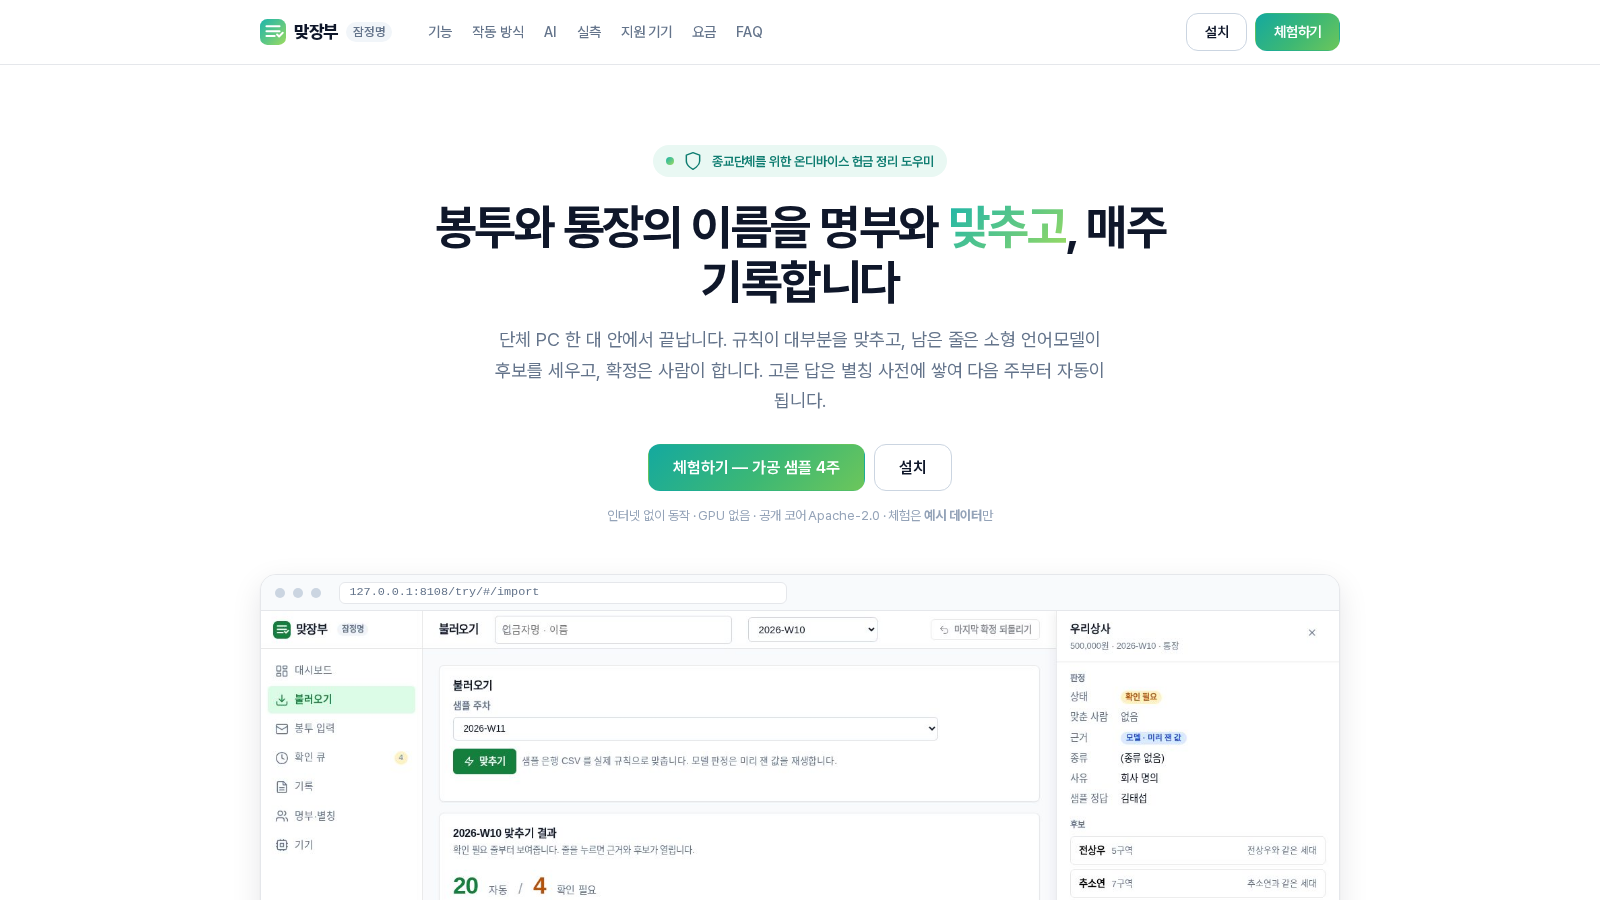
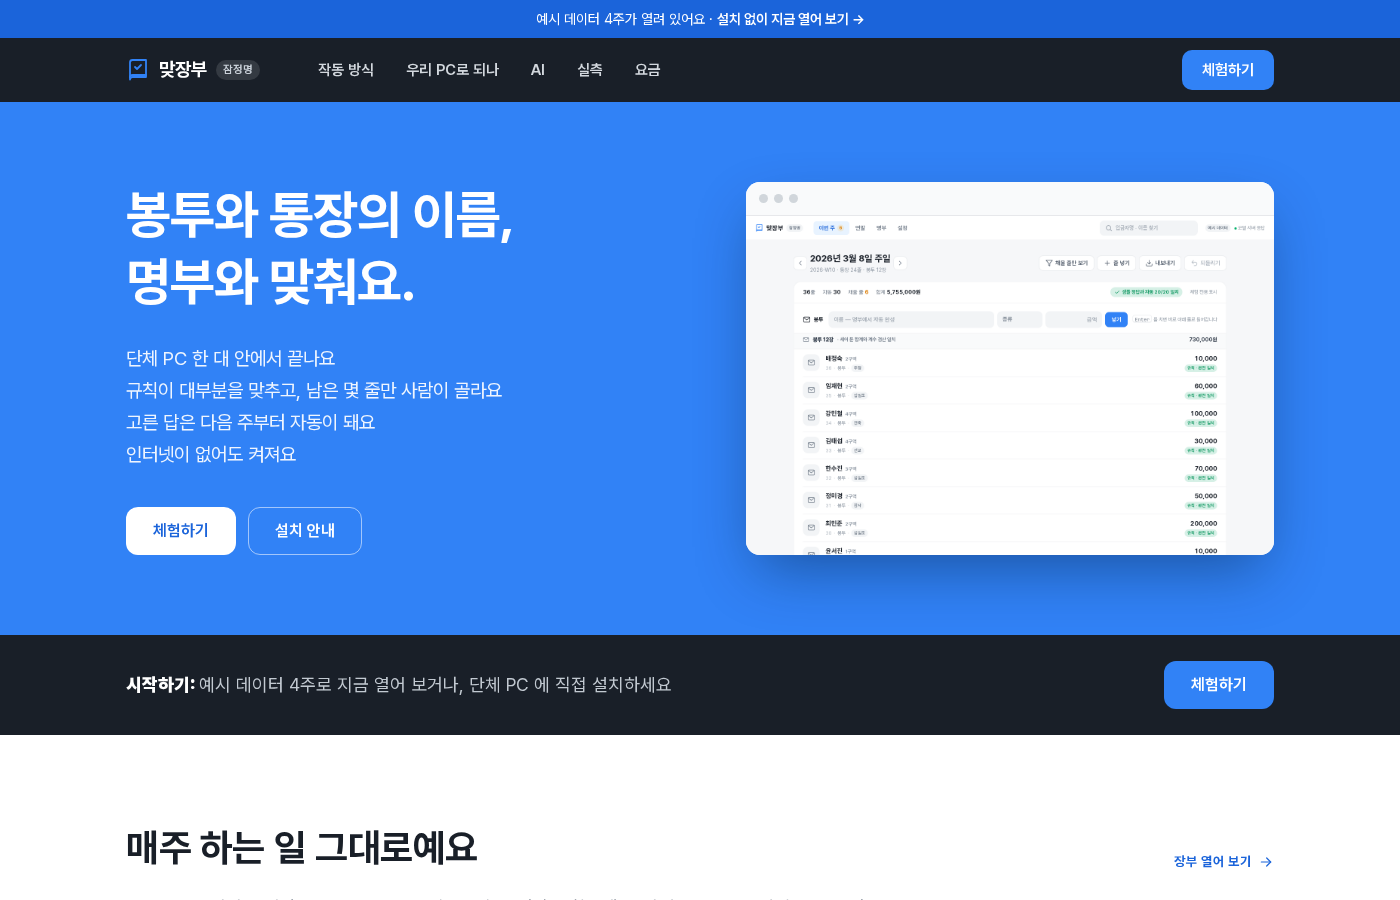
tools: 검증 도구 3개를 새 DOM 계약(data-mj)으로 다시 씀
클래스 이름이 아니라 `data-mj` 속성만 본다 — 겉모습을 손봐도 도구가 깨지지 않는다.

- `verify_site.cjs` — 경로를 `/`·`/install/`·`/try/` 셋으로. 화면마다 계약 개수를
  단언하고(hero·matrix·opt[data-on]·out·gnb·tab 4·ledger·entry·total·row),
  390px 가로 넘침 0 을 함께 본다. `--expect-banner` 는 `--expect-recorded` 로 바뀌었고
  배너 대신 `window.matjangbuApiBase === null` 로 폴백을 판정한다(옛 이름도 계속 받는다).
- `verify_funnel.cjs` — 깔때기를 새 동선으로: 랜딩 히어로 「체험하기」 → `/try/` →
  첫 빈 줄 클릭 → 그 자리 판 열림 → 첫 후보 클릭 → 채울 줄 수가 하나 줄어듦.
  읽기 전용이거나 후보가 없는 줄이면 판 열림까지만 단언한다.
- `site_shots.cjs` — 9장(랜딩 데스크톱·모바일 · 설치 · 주간 장 · 펼친 판 ·
  연말 · 명부 · 설정 · 주간 장 모바일). 옛 7장은 없어진 화면이라 지웠다.
- `docs/ops.md` 의 배너·확인 큐 서술을 새 화면에 맞췄다.

검증(8108): verify_site 0 · verify_funnel 0(9개 ✓) · site_shots 0(9장, 콘솔 에러 0).
폴백(8123 + `--expect-recorded`): verify_site 0.

diff --git a/docs/ops.md b/docs/ops.md
@@ -32,14 +32,16 @@ tailscale funnel status                  # https://<이 노트북>.<테일넷>.t
 ```
 
 주소가 나오면 `site/try/index.html`의 `<meta name="matjangbu-api" content="https://…/">`에 넣고 재배포한다(아래).
-공개 사이트가 인스턴스에 붙는지: `node tools/verify_site.cjs --base https://stoporder.github.io/matjangbu --allow https://<주소> --resolve <호스트>=<공개 IP>` (배너 없음 = 0).
+공개 사이트가 인스턴스에 붙는지: `node tools/verify_site.cjs --base https://stoporder.github.io/matjangbu --allow https://<주소> --resolve <호스트>=<공개 IP>` (0 = 통과).
+- 세 경로(`/`·`/install/`·`/try/`)의 DOM 계약(`data-mj=…`)·외부 요청 0·콘솔 에러 0·정적 4xx 0·390px 가로 넘침 0 을 한 번에 본다.
 - `--resolve`가 필요한 이유: 테일넷에 들어 있는 머신에서는 Funnel 호스트가 MagicDNS 로 100.x 로 풀리고, Chromium 은 공개 사이트가 「local 주소 공간」에 fetch 하는 것을 막는다(헤드리스는 그냥 거부, 일반 브라우저는 「로컬 네트워크 접근」 허용을 묻는다). 공개 IP 는 `curl -s 'https://dns.google/resolve?name=<호스트>&type=A'`로 본다(2026-09-20 현재 103.84.155.217 · 103.84.155.153).
-- 같은 이유로 **Tailscale 이 켜진 자기 기기**에서 공개 `/try/`를 열면 브라우저가 로컬 네트워크 접근 허용을 한 번 묻는다. 허용하지 않으면 읽기 전용 폴백(앰버 배너)으로 떨어진다. 외부 방문자·Tailscale 을 끈 기기는 해당 없음.
+- 같은 이유로 **Tailscale 이 켜진 자기 기기**에서 공개 `/try/`를 열면 브라우저가 로컬 네트워크 접근 허용을 한 번 묻는다. 허용하지 않으면 읽기 전용 폴백(GNB 에 「미리 잰 기록」 칩)으로 떨어진다. 외부 방문자·Tailscale 을 끈 기기는 해당 없음.
 
-끝까지 동작하는지(확인 큐 확정 → W11 불러오기에서 별칭 자동): `node tools/verify_funnel.cjs --base https://stoporder.github.io/matjangbu --api https://<주소>/ --resolve <호스트>=<공개 IP> --out docs/shots/08-public-funnel-w11.png` (0 = 통과, 최종 화면을 찍는다).
-- 이 스크립트의 대기는 전부 조건 대기다. 공개 인그레스 경유는 요청당 0.5~3초라 고정 시간 대기는 실패한다. `#imp-progress`의 「끝」과 토스트는 일시 표시(불러오기 뒤 `load()`가 화면을 다시 그림)라 기준으로 쓰지 않는다 — `tools/site_shots.cjs`는 아직 「끝」을 기다리므로 느린 경로에서는 시간 초과가 날 수 있다(로컬 8108 전용으로 둔다).
+끝까지 동작하는지(랜딩 「체험하기」 → 장부 → 빈 줄 펼침 → 후보 확정): `node tools/verify_funnel.cjs --base https://stoporder.github.io/matjangbu --api https://<주소>/ --resolve <호스트>=<공개 IP> --out docs/shots/10-public-funnel.png` (0 = 통과, `--out` 을 주면 최종 화면을 찍는다).
+- 이 스크립트의 대기는 전부 조건 대기다. 공개 인그레스 경유는 요청당 0.5~3초라 고정 시간 대기는 실패한다. 토스트는 3.2초 뒤 사라지는 일시 표시라 기준으로 쓰지 않는다 — 「채울 줄 수가 하나 줄었다」를 기다린다.
+- 읽기 전용(미리 잰 기록)으로 떨어진 경우에는 고르기가 막히므로 판이 열리는 데까지만 단언하고 통과시킨다.
 
-폴백 확인: `systemctl --user stop matjangbu-web` → 위 `verify_site.cjs` 명령에 `--expect-banner`를 붙여 0 → `systemctl --user start matjangbu-web`.
+폴백 확인: `systemctl --user stop matjangbu-web` → 위 `verify_site.cjs` 명령에 `--expect-recorded`를 붙여 0 → `systemctl --user start matjangbu-web`. (옛 이름 `--expect-banner` 도 아직 받는다.)
 
 ## 사이트 재배포
 
@@ -52,7 +54,9 @@ git subtree push --prefix site origin gh-pages          # 1~2분 뒤 반영
 curl -sI https://stoporder.github.io/matjangbu/ | head -1
 ```
 
-확인 큐 카드의 직접 고르기 select 는 「다른 방법 ▾」(`[data-more]`)를 눌러야 보인다 — 검증 도구(`site_shots.cjs`·`verify_funnel.cjs`)는 이미 그렇게 한다.
+화면과 검증 도구가 같이 지키는 것은 `data-mj` 속성뿐이다 — `gnb`·`tab`·`ledger`·`row`(+`data-blank`)·`panel`·`cand`·`entry`·`total`·`hero`·`matrix`·`opt`(+`data-on`)·`out`. 클래스 이름은 바꿔도 되지만 이 속성은 화면과 도구를 함께 고쳐야 한다(계약표: `docs/superpowers/plans/2026-09-21-pytorch-tds-implementation.md`).
+
+화면 다시 찍기: `node tools/site_shots.cjs docs/shots --base http://127.0.0.1:8108` (9장, 콘솔 에러가 있으면 1 로 끝난다).
 
 ## 기록(recorded.json) 다시 만들기
 
